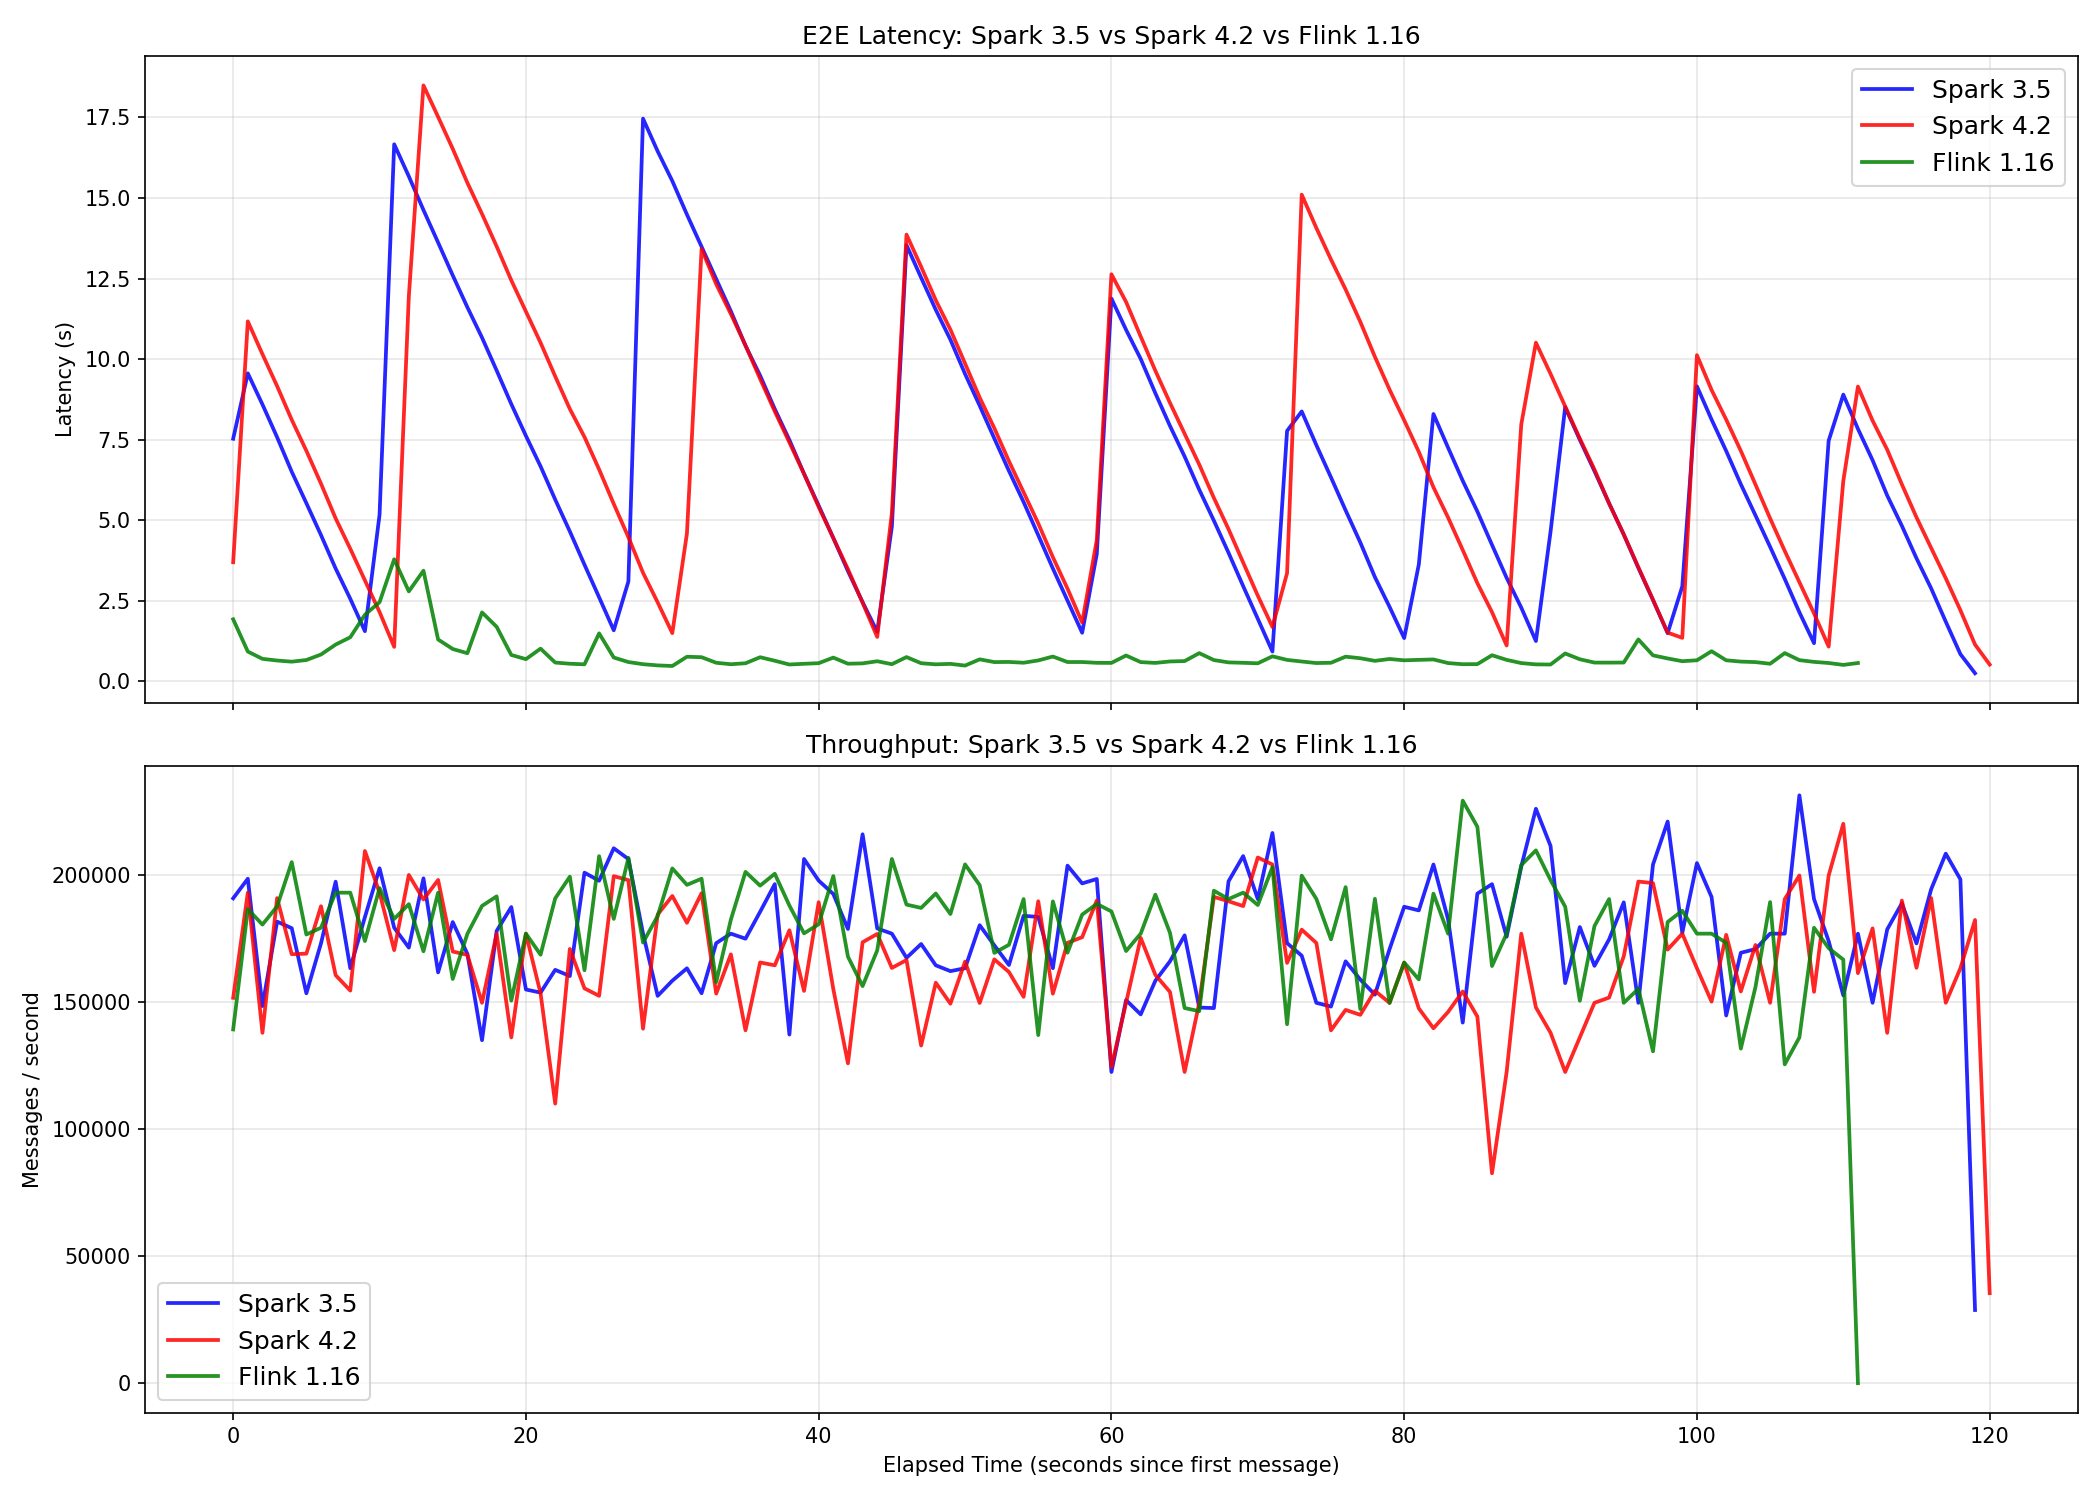
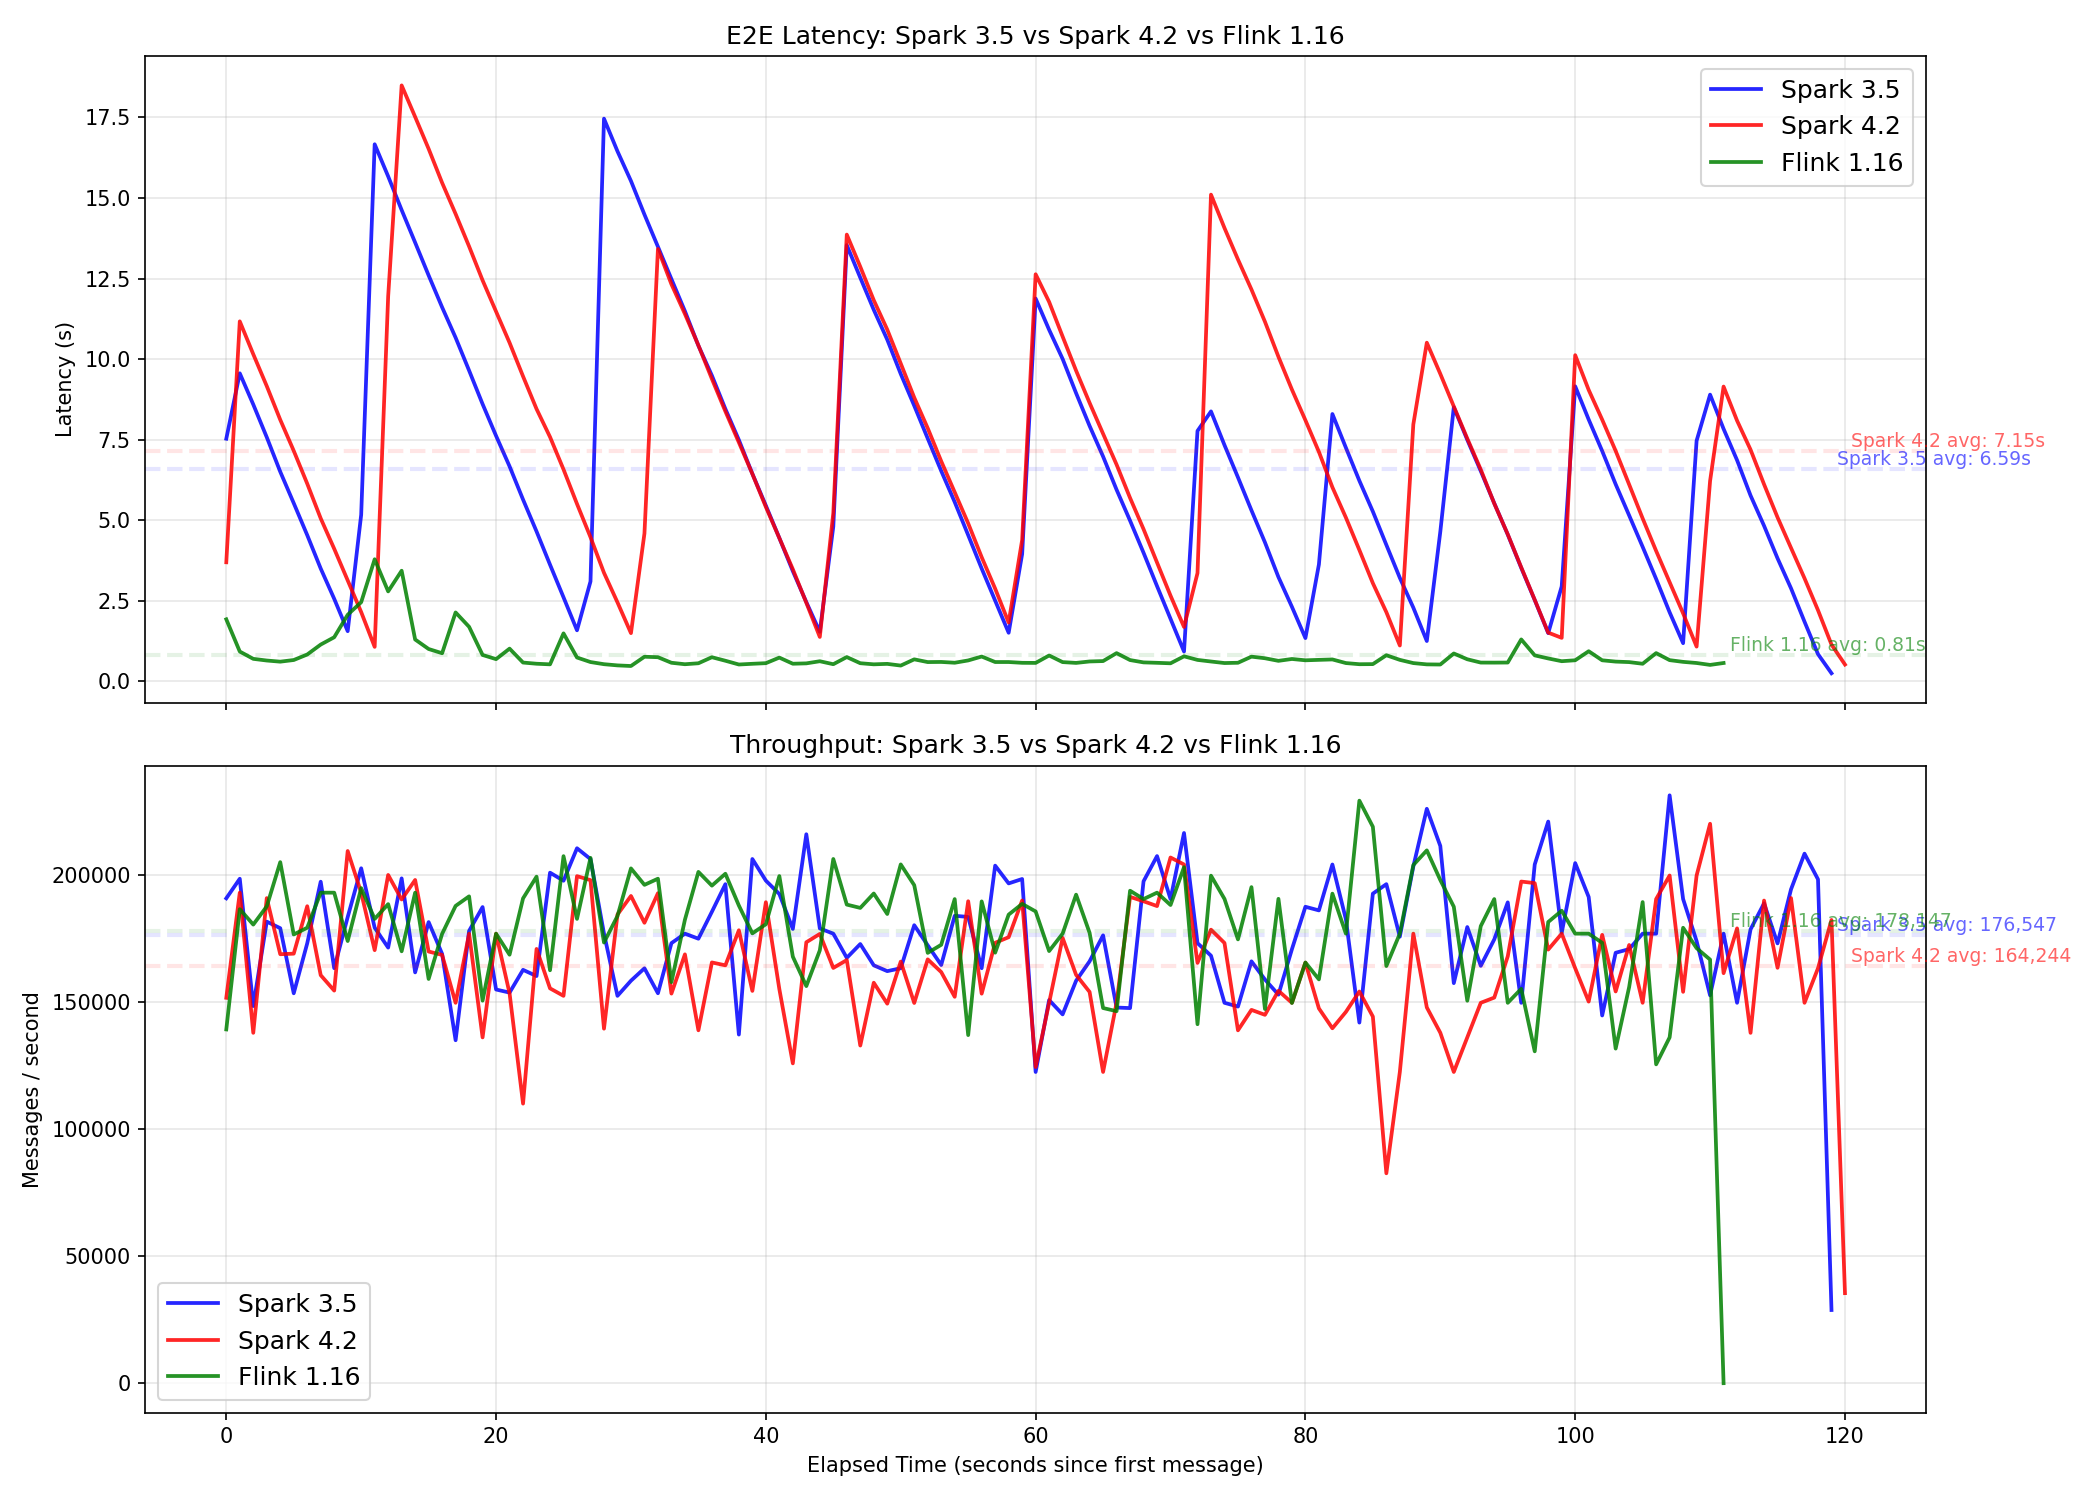
Add a legend of average

diff --git a/src/containers/analytics-pyspark/analyze.py b/src/containers/analytics-pyspark/analyze.py
@@ -91,7 +91,16 @@ def main():
             continue
         label = series["version"].iloc[0]
         ax_lat.plot(series["elapsed_s"], series["latency_s"], color=color, label=label, linewidth=1.8, alpha=0.85)
+        avg_lat = series["latency_s"].mean()
+        ax_lat.axhline(y=avg_lat, color=color, linestyle="--", alpha=0.10, linewidth=2)
+        ax_lat.text(series["elapsed_s"].iloc[-1], avg_lat, f" {label} avg: {avg_lat:.2f}s",
+                    color=color, alpha=0.6, fontsize=9, va="bottom")
+
         ax_thr.plot(series["elapsed_s"], series["msg_count"], color=color, label=label, linewidth=1.8, alpha=0.85)
+        avg_thr = series["msg_count"].mean()
+        ax_thr.axhline(y=avg_thr, color=color, linestyle="--", alpha=0.10, linewidth=2)
+        ax_thr.text(series["elapsed_s"].iloc[-1], avg_thr, f" {label} avg: {avg_thr:,.0f}",
+                    color=color, alpha=0.6, fontsize=9, va="bottom")
 
     ax_lat.set_ylabel("Latency (s)")
     ax_lat.set_title("E2E Latency: Spark 3.5 vs Spark 4.2 vs Flink 1.16")
